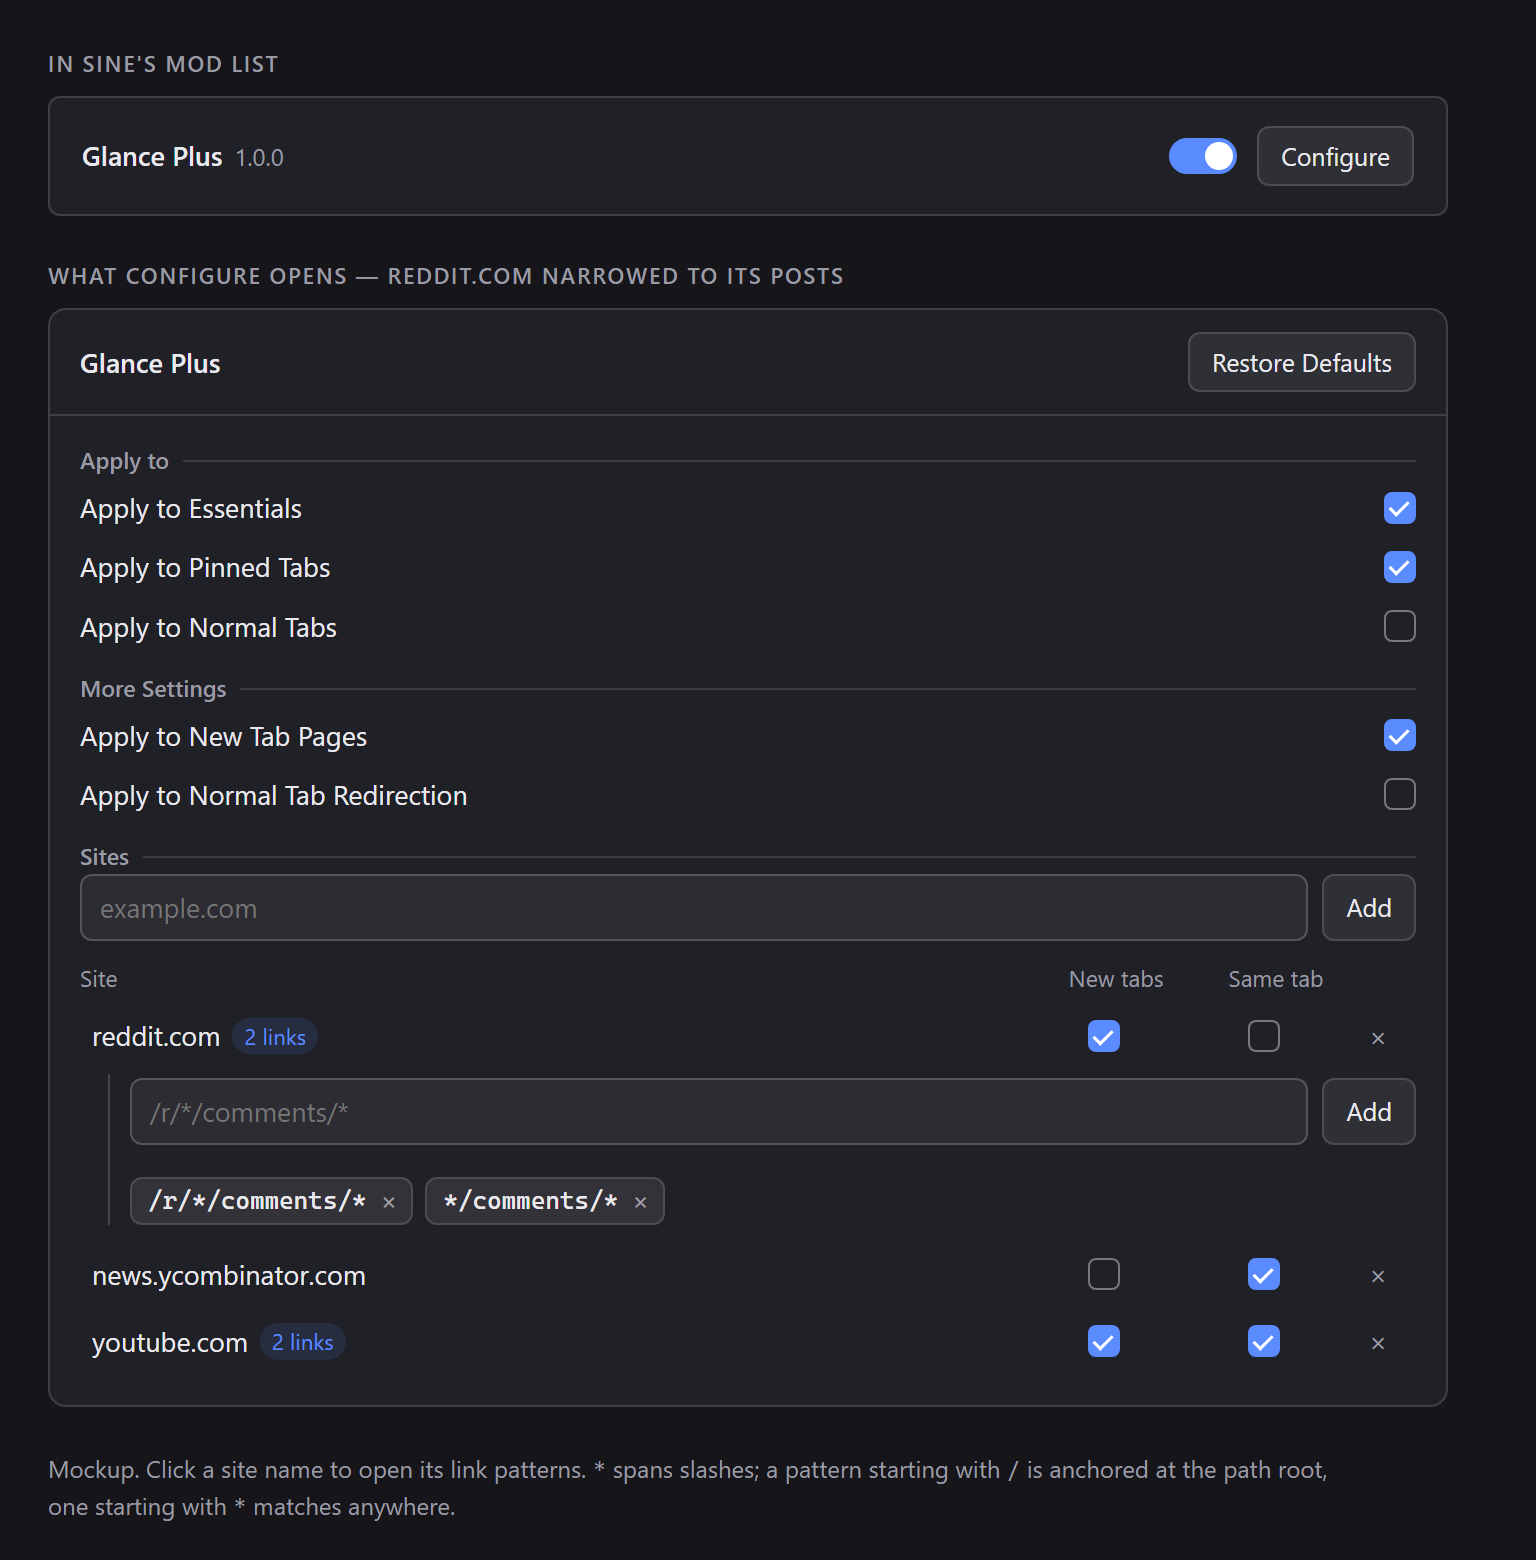
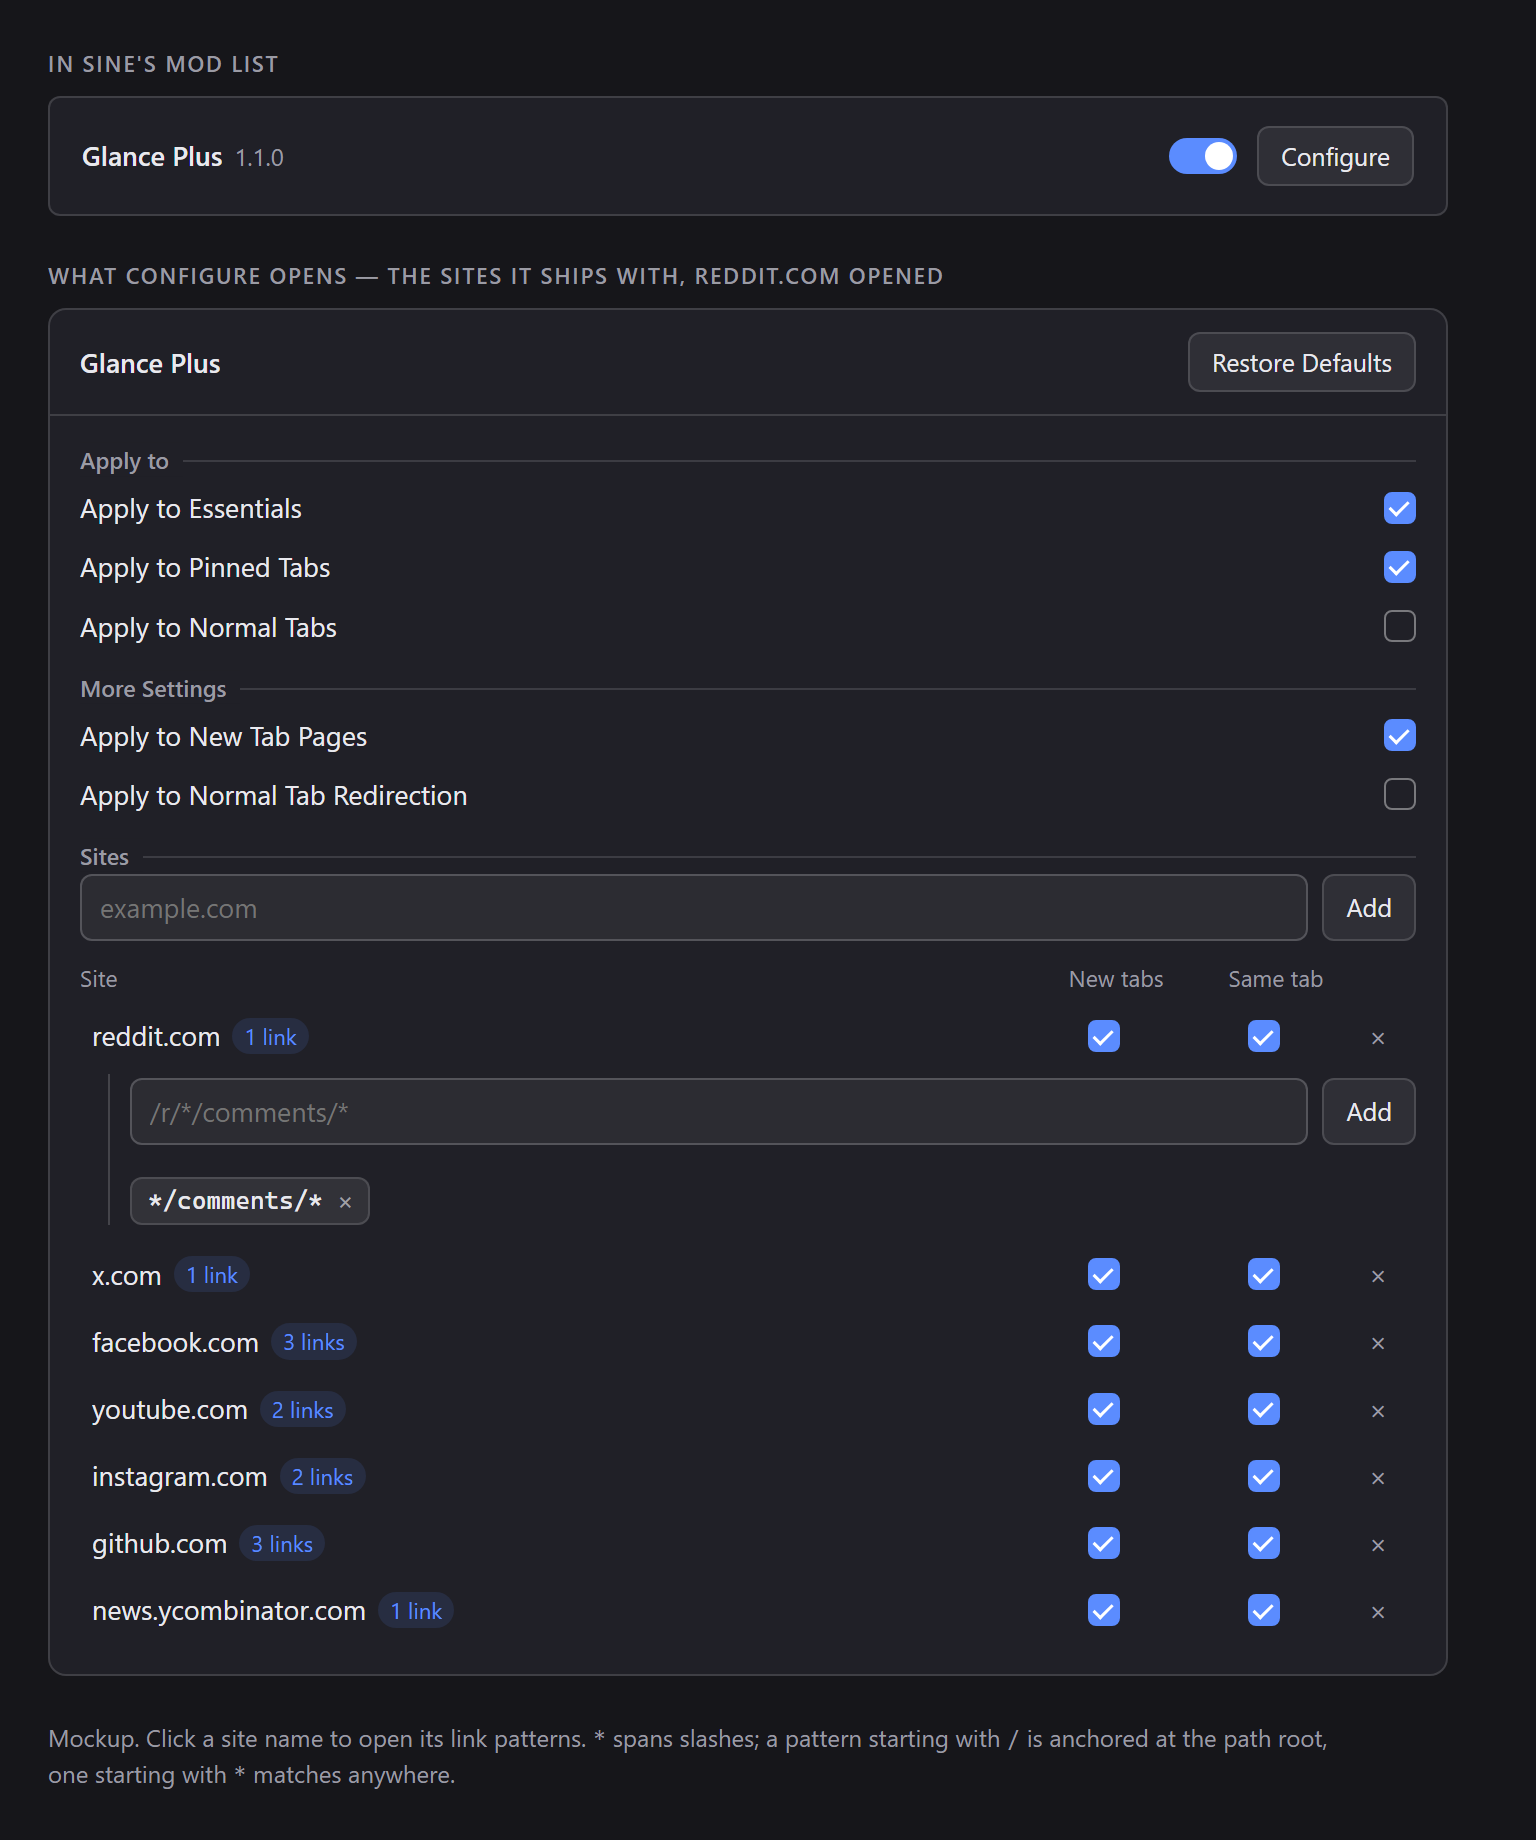
feat: ship configured sites for popular content
Reddit, X, Facebook, YouTube, Instagram, GitHub and Hacker News start as
rows, each narrowed to the pages worth reading on that site: a post, a
status, a video, an issue, a comment thread. A listing, front page or
settings page on the same domain opens normally.

Rows are seeded only while the domains pref has never been written, so
an existing list is kept and an emptied one is not refilled. Both the
table and the decision path read through the same seeding step, so what
the settings show is what the rules use.

diff --git a/scripts/zen-glance-plus.uc.js b/scripts/zen-glance-plus.uc.js
@@ -24,6 +24,20 @@
   "use strict";
 
   const PREF_ROOT = "zen-glance-plus.";
+  /**
+   * Sites that ship configured. Only used when the domains pref has never
+   * been written, so a list emptied by hand stays empty.
+   */
+  const DEFAULT_SITES = [
+    { host: "reddit.com", tabs: true, links: true, paths: ["*/comments/*"] },
+    { host: "x.com", tabs: true, links: true, paths: ["*/status/*"] },
+    { host: "facebook.com", tabs: true, links: true, paths: ["*/posts/*", "/permalink.php*", "/photo.php*"] },
+    { host: "youtube.com", tabs: true, links: true, paths: ["/watch*", "/shorts/*"] },
+    { host: "instagram.com", tabs: true, links: true, paths: ["/p/*", "/reel/*"] },
+    { host: "github.com", tabs: true, links: true, paths: ["*/issues/*", "*/pull/*", "*/discussions/*"] },
+    { host: "news.ycombinator.com", tabs: true, links: true, paths: ["/item?id=*"] },
+  ];
+
   const PREF = {
     essential: PREF_ROOT + "essential",
     pinned: PREF_ROOT + "pinned",
@@ -169,7 +183,25 @@
     return rules;
   }
 
+  /** True only while the domains pref has never been written. */
+  function domainsPrefIsUnset() {
+    try {
+      const prefs = Services.prefs;
+      if (typeof prefs.getPrefType !== "function") {
+        return false;
+      }
+      return prefs.getPrefType(PREF.domains) === (prefs.PREF_INVALID ?? 0);
+    } catch (e) {
+      return false;
+    }
+  }
+
   function readDomains() {
+    if (domainsPrefIsUnset()) {
+      const seeded = parseDomains(JSON.stringify(DEFAULT_SITES));
+      writeDomains(seeded);
+      return seeded;
+    }
     return parseDomains(readPrefString(PREF.domains, "[]"));
   }
 

diff --git a/README.md b/README.md
@@ -30,6 +30,8 @@ Add a domain, and its row has a switch for the site's new tabs and a switch for 
 
 Changes save as you make them and apply to the next page you open.
 
+The table starts populated: reddit.com, x.com, facebook.com, youtube.com, instagram.com, github.com and news.ycombinator.com, each row narrowed to that site's content pages — a post, a status, a video, an issue, a comment thread — so a fresh install glances something before you touch a setting. Those rows are written once, on the first start after install. Delete one and it stays deleted; the defaults never come back.
+
 ### Link patterns
 
 Click a site name and the row opens its patterns. With none, every link on the site glances. With patterns, only matching links do, which is how a subreddit's posts open in Glance while its listings, front page and settings stay ordinary tabs:

diff --git a/CHANGELOG.md b/CHANGELOG.md
@@ -1,5 +1,9 @@
 # Changelog
 
+## 1.1.0 — 2026-10-27
+
+- The mod ships with sites already configured: Reddit, X, Facebook, YouTube, Instagram, GitHub and Hacker News, each row narrowed to the site's content pages so a post glances while a listing, front page or settings page opens normally. The list is written once, on the first start after install, so a profile that already has its own rows keeps them and a row you delete stays deleted.
+
 ## 1.0.0 — 2026-10-27
 
 First public release. Glance Plus opens a new tab as a Glance, and decides which pages deserve one.
